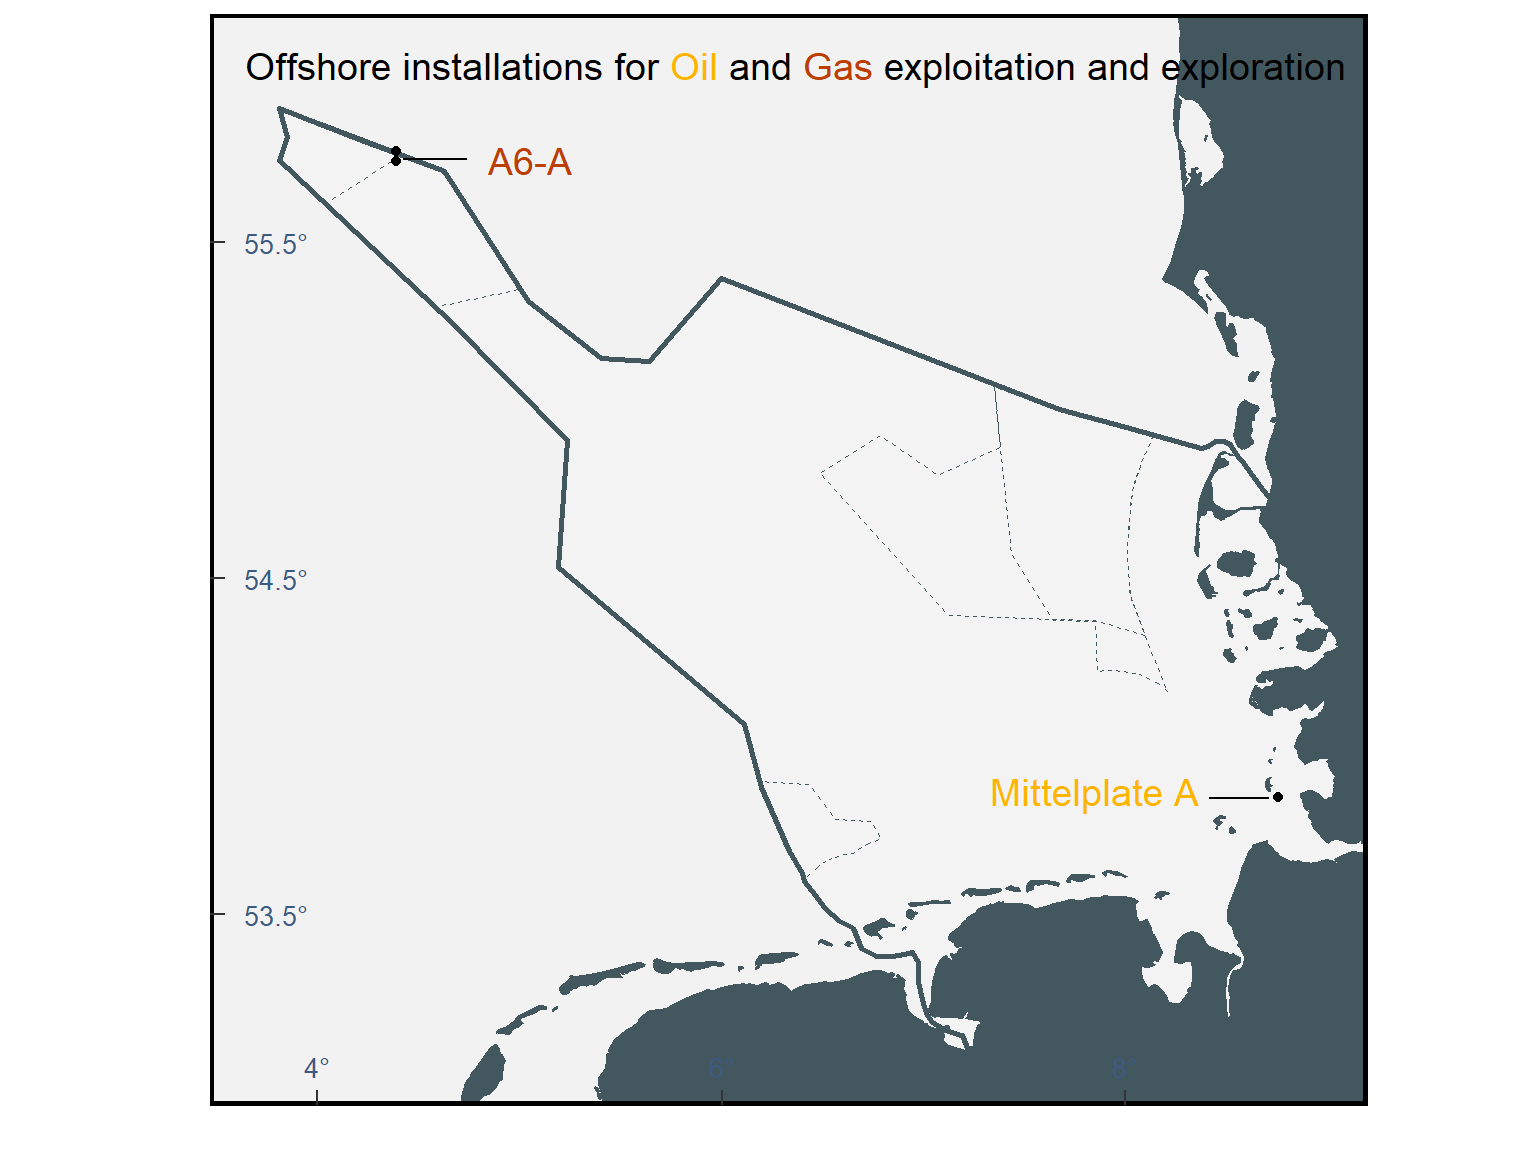
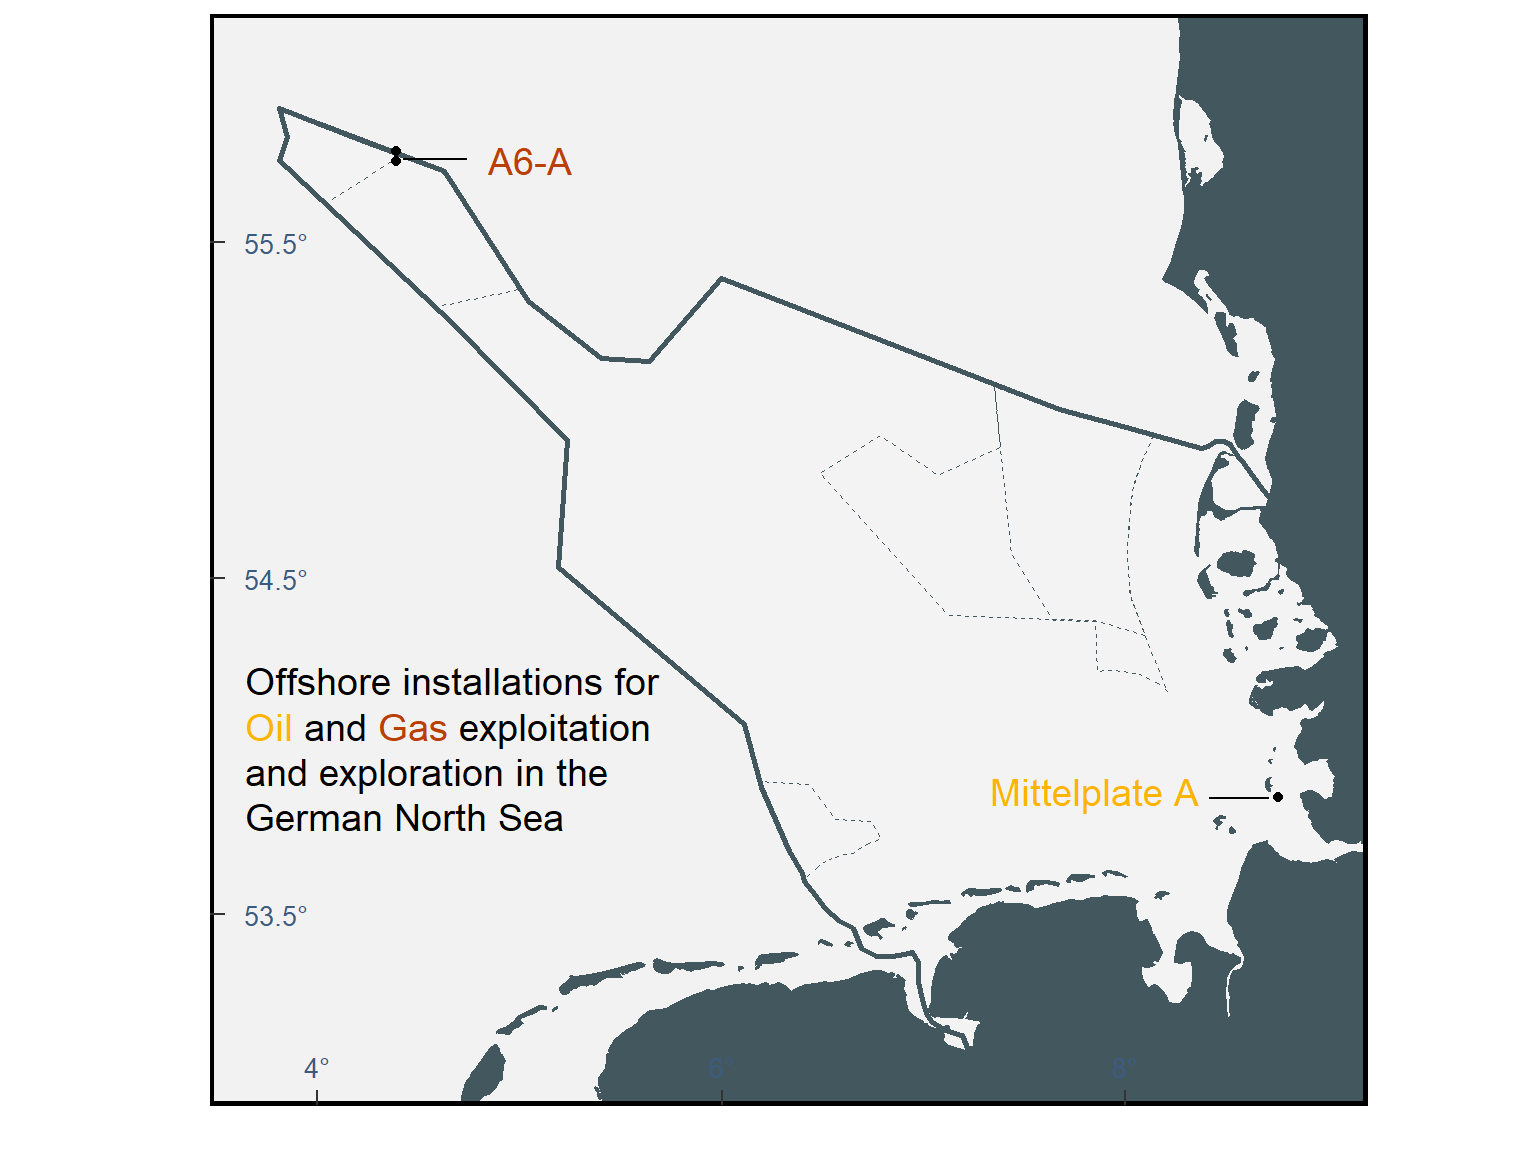
blospost oil

Changed region(s): [[0.1562, 0.5625, 0.4375, 0.7188], [0.1562, 0.0312, 0.875, 0.0938]]

diff --git a/_posts/2025-08-12-oil/oil.html b/_posts/2025-08-12-oil/oil.html
@@ -118,7 +118,7 @@ code span.wa { color: #5e5e5e; font-style: italic; } /* Warning */
   <!--/radix_placeholder_rmarkdown_metadata-->
   
   <script type="text/json" id="radix-resource-manifest">
-  {"type":"character","attributes":{},"value":["oil_files/anchor-4.2.2/anchor.min.js","oil_files/bowser-1.9.3/bowser.min.js","oil_files/distill-2.2.21/template.v2.js","oil_files/figure-html5/unnamed-chunk-12-1.png","oil_files/figure-html5/unnamed-chunk-13-1.png","oil_files/figure-html5/unnamed-chunk-14-1.png","oil_files/figure-html5/unnamed-chunk-15-1.png","oil_files/figure-html5/unnamed-chunk-16-1.png","oil_files/figure-html5/unnamed-chunk-17-1.png","oil_files/figure-html5/unnamed-chunk-18-1.png","oil_files/figure-html5/unnamed-chunk-7-1.png","oil_files/figure-html5/unnamed-chunk-8-1.png","oil_files/header-attrs-2.28/header-attrs.js","oil_files/jquery-3.6.0/jquery-3.6.0.js","oil_files/jquery-3.6.0/jquery-3.6.0.min.js","oil_files/jquery-3.6.0/jquery-3.6.0.min.map","oil_files/popper-2.6.0/popper.min.js","oil_files/tippy-6.2.7/tippy-bundle.umd.min.js","oil_files/tippy-6.2.7/tippy-light-border.css","oil_files/tippy-6.2.7/tippy.css","oil_files/tippy-6.2.7/tippy.umd.min.js","oil_files/webcomponents-2.0.0/webcomponents.js"]}
+  {"type":"character","attributes":{},"value":["oil.jpeg","oil_files/anchor-4.2.2/anchor.min.js","oil_files/bowser-1.9.3/bowser.min.js","oil_files/distill-2.2.21/template.v2.js","oil_files/figure-html5/unnamed-chunk-12-1.png","oil_files/figure-html5/unnamed-chunk-13-1.png","oil_files/figure-html5/unnamed-chunk-14-1.png","oil_files/figure-html5/unnamed-chunk-15-1.png","oil_files/figure-html5/unnamed-chunk-16-1.png","oil_files/figure-html5/unnamed-chunk-17-1.png","oil_files/figure-html5/unnamed-chunk-18-1.png","oil_files/figure-html5/unnamed-chunk-7-1.png","oil_files/figure-html5/unnamed-chunk-8-1.png","oil_files/header-attrs-2.28/header-attrs.js","oil_files/jquery-3.6.0/jquery-3.6.0.js","oil_files/jquery-3.6.0/jquery-3.6.0.min.js","oil_files/jquery-3.6.0/jquery-3.6.0.min.map","oil_files/popper-2.6.0/popper.min.js","oil_files/tippy-6.2.7/tippy-bundle.umd.min.js","oil_files/tippy-6.2.7/tippy-light-border.css","oil_files/tippy-6.2.7/tippy.css","oil_files/tippy-6.2.7/tippy.umd.min.js","oil_files/webcomponents-2.0.0/webcomponents.js"]}
   </script>
   <!--radix_placeholder_navigation_in_header-->
   <!--/radix_placeholder_navigation_in_header-->
@@ -1696,12 +1696,12 @@ Visualize the points.</p>
 <div class="layout-chunk" data-layout="l-body">
 <div class="sourceCode">
 <pre class="sourceCode r"><code class="sourceCode r"><span><span class='va'>Oil_1plot</span> <span class='op'>+</span></span>
-<span>  <span class='fu'><a href='https://wilkelab.org/ggtext/reference/geom_richtext.html'>geom_richtext</a></span><span class='op'>(</span><span class='fu'><a href='https://ggplot2.tidyverse.org/reference/aes.html'>aes</a></span><span class='op'>(</span>x <span class='op'>=</span>  <span class='fl'>3891000</span>, y <span class='op'>=</span> <span class='fl'>3669000</span>,</span>
-<span>  label <span class='op'>=</span> <span class='st'>"Offshore installations for</span></span>
+<span>  <span class='fu'><a href='https://wilkelab.org/ggtext/reference/geom_richtext.html'>geom_richtext</a></span><span class='op'>(</span><span class='fu'><a href='https://ggplot2.tidyverse.org/reference/aes.html'>aes</a></span><span class='op'>(</span>x <span class='op'>=</span>  <span class='fl'>3891000</span>, y <span class='op'>=</span> <span class='fl'>3419000</span>,</span>
+<span>  label <span class='op'>=</span> <span class='st'>"Offshore installations for&lt;br&gt;</span></span>
 <span><span class='st'>  &lt;span style='color:#ffb400'&gt;Oil&lt;/span&gt;</span></span>
 <span><span class='st'>  and</span></span>
 <span><span class='st'>  &lt;span style='color:#bb3e03'&gt;Gas&lt;/span&gt;</span></span>
-<span><span class='st'>  exploitation and exploration"</span><span class='op'>)</span>, </span>
+<span><span class='st'>  exploitation &lt;br&gt;and exploration  in the &lt;br&gt;German North Sea"</span><span class='op'>)</span>, </span>
 <span>  size <span class='op'>=</span> <span class='fl'>5</span>, </span>
 <span>  fill <span class='op'>=</span> <span class='cn'>NA</span>, </span>
 <span>  label.color <span class='op'>=</span> <span class='cn'>NA</span>, <span class='co'># remove background and outline</span></span>
@@ -1733,6 +1733,9 @@ Operated by the German North Sea Consortium, with Wintershall Noordzee B.V. mana
 </left>
 </body>
 </html>
+<div class="layout-chunk" data-layout="l-body">
+
+</div>
 <h1 id="references">References</h1>
 <ul>
 <li><p><a href="https://oap.ospar.org/en/ospar-assessments/quality-status-reports/qsr-2023/other-assessments/impacts-offshore-oil-and-gas-industry/">Assessment of impacts of the offshore oil and gas industry on the marine environment</a></p></li>

diff --git a/_site/posts/2025-08-12-oil/index.html b/_site/posts/2025-08-12-oil/index.html
@@ -128,7 +128,7 @@ code span.wa { color: #5e5e5e; font-style: italic; } /* Warning */
 <!--/radix_placeholder_rmarkdown_metadata-->
   
   <script type="text/json" id="radix-resource-manifest">
-  {"type":"character","attributes":{},"value":["oil_files/anchor-4.2.2/anchor.min.js","oil_files/bowser-1.9.3/bowser.min.js","oil_files/distill-2.2.21/template.v2.js","oil_files/figure-html5/unnamed-chunk-12-1.png","oil_files/figure-html5/unnamed-chunk-13-1.png","oil_files/figure-html5/unnamed-chunk-14-1.png","oil_files/figure-html5/unnamed-chunk-15-1.png","oil_files/figure-html5/unnamed-chunk-16-1.png","oil_files/figure-html5/unnamed-chunk-17-1.png","oil_files/figure-html5/unnamed-chunk-18-1.png","oil_files/figure-html5/unnamed-chunk-7-1.png","oil_files/figure-html5/unnamed-chunk-8-1.png","oil_files/header-attrs-2.28/header-attrs.js","oil_files/jquery-3.6.0/jquery-3.6.0.js","oil_files/jquery-3.6.0/jquery-3.6.0.min.js","oil_files/jquery-3.6.0/jquery-3.6.0.min.map","oil_files/popper-2.6.0/popper.min.js","oil_files/tippy-6.2.7/tippy-bundle.umd.min.js","oil_files/tippy-6.2.7/tippy-light-border.css","oil_files/tippy-6.2.7/tippy.css","oil_files/tippy-6.2.7/tippy.umd.min.js","oil_files/webcomponents-2.0.0/webcomponents.js"]}
+  {"type":"character","attributes":{},"value":["oil.jpeg","oil_files/anchor-4.2.2/anchor.min.js","oil_files/bowser-1.9.3/bowser.min.js","oil_files/distill-2.2.21/template.v2.js","oil_files/figure-html5/unnamed-chunk-12-1.png","oil_files/figure-html5/unnamed-chunk-13-1.png","oil_files/figure-html5/unnamed-chunk-14-1.png","oil_files/figure-html5/unnamed-chunk-15-1.png","oil_files/figure-html5/unnamed-chunk-16-1.png","oil_files/figure-html5/unnamed-chunk-17-1.png","oil_files/figure-html5/unnamed-chunk-18-1.png","oil_files/figure-html5/unnamed-chunk-7-1.png","oil_files/figure-html5/unnamed-chunk-8-1.png","oil_files/header-attrs-2.28/header-attrs.js","oil_files/jquery-3.6.0/jquery-3.6.0.js","oil_files/jquery-3.6.0/jquery-3.6.0.min.js","oil_files/jquery-3.6.0/jquery-3.6.0.min.map","oil_files/popper-2.6.0/popper.min.js","oil_files/tippy-6.2.7/tippy-bundle.umd.min.js","oil_files/tippy-6.2.7/tippy-light-border.css","oil_files/tippy-6.2.7/tippy.css","oil_files/tippy-6.2.7/tippy.umd.min.js","oil_files/webcomponents-2.0.0/webcomponents.js"]}
   </script>
   <!--radix_placeholder_navigation_in_header-->
 <meta name="distill:offset" content="../.."/>
@@ -2689,12 +2689,12 @@ Visualize the points.</p>
 <div class="layout-chunk" data-layout="l-body">
 <div class="sourceCode">
 <pre class="sourceCode r"><code class="sourceCode r"><span><span class='va'>Oil_1plot</span> <span class='op'>+</span></span>
-<span>  <span class='fu'><a href='https://wilkelab.org/ggtext/reference/geom_richtext.html'>geom_richtext</a></span><span class='op'>(</span><span class='fu'><a href='https://ggplot2.tidyverse.org/reference/aes.html'>aes</a></span><span class='op'>(</span>x <span class='op'>=</span>  <span class='fl'>3891000</span>, y <span class='op'>=</span> <span class='fl'>3669000</span>,</span>
-<span>  label <span class='op'>=</span> <span class='st'>"Offshore installations for</span></span>
+<span>  <span class='fu'><a href='https://wilkelab.org/ggtext/reference/geom_richtext.html'>geom_richtext</a></span><span class='op'>(</span><span class='fu'><a href='https://ggplot2.tidyverse.org/reference/aes.html'>aes</a></span><span class='op'>(</span>x <span class='op'>=</span>  <span class='fl'>3891000</span>, y <span class='op'>=</span> <span class='fl'>3419000</span>,</span>
+<span>  label <span class='op'>=</span> <span class='st'>"Offshore installations for&lt;br&gt;</span></span>
 <span><span class='st'>  &lt;span style='color:#ffb400'&gt;Oil&lt;/span&gt;</span></span>
 <span><span class='st'>  and</span></span>
 <span><span class='st'>  &lt;span style='color:#bb3e03'&gt;Gas&lt;/span&gt;</span></span>
-<span><span class='st'>  exploitation and exploration"</span><span class='op'>)</span>, </span>
+<span><span class='st'>  exploitation &lt;br&gt;and exploration  in the &lt;br&gt;German North Sea"</span><span class='op'>)</span>, </span>
 <span>  size <span class='op'>=</span> <span class='fl'>5</span>, </span>
 <span>  fill <span class='op'>=</span> <span class='cn'>NA</span>, </span>
 <span>  label.color <span class='op'>=</span> <span class='cn'>NA</span>, <span class='co'># remove background and outline</span></span>
@@ -2726,6 +2726,9 @@ Operated by the German North Sea Consortium, with Wintershall Noordzee B.V. mana
 </left>
 </body>
 </html>
+<div class="layout-chunk" data-layout="l-body">
+
+</div>
 <h1 id="references">References</h1>
 <ul>
 <li><p><a href="https://oap.ospar.org/en/ospar-assessments/quality-status-reports/qsr-2023/other-assessments/impacts-offshore-oil-and-gas-industry/">Assessment of impacts of the offshore oil and gas industry on the marine environment</a></p></li>
